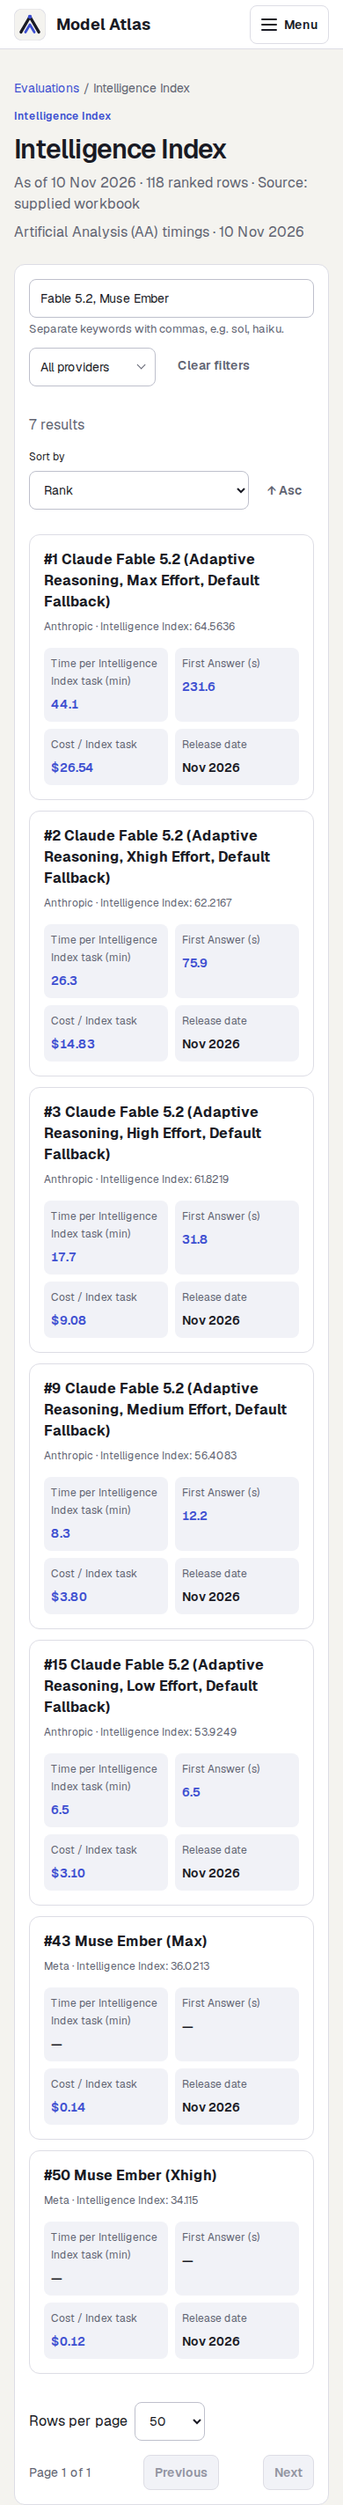
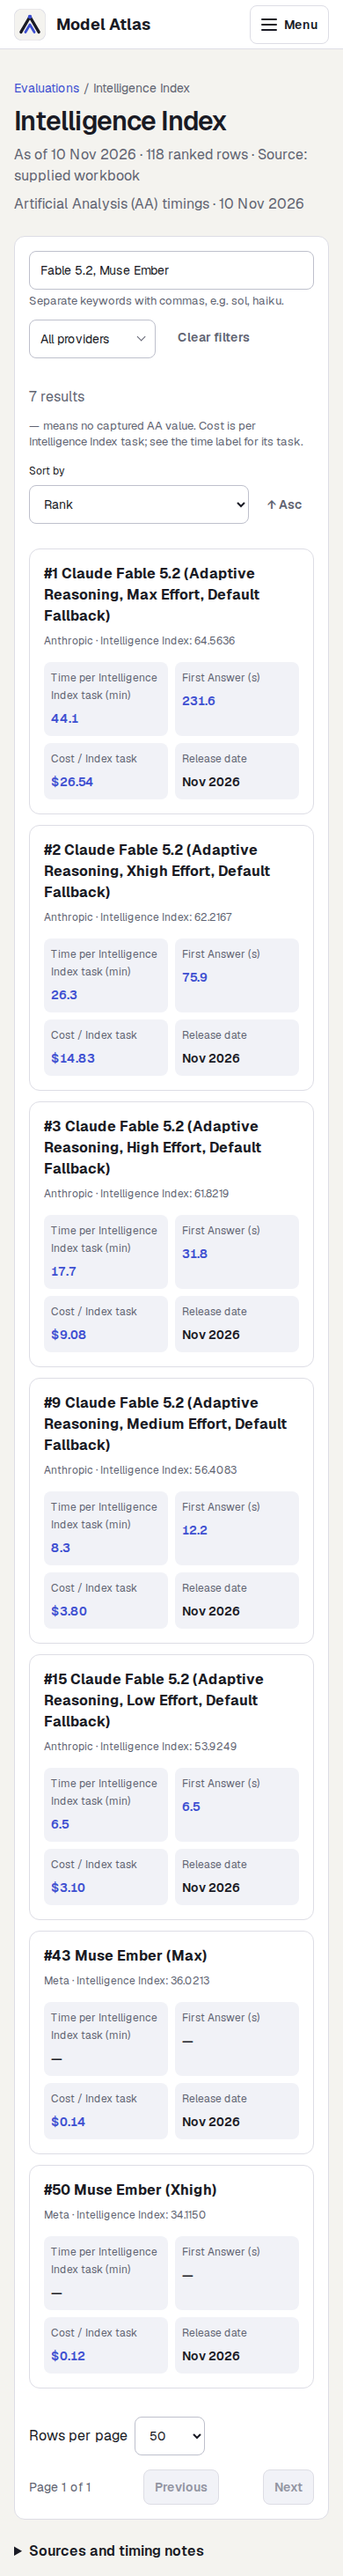
fix: address new-model browser review findings

diff --git a/src/components/master-leaderboard.tsx b/src/components/master-leaderboard.tsx
@@ -22,7 +22,7 @@ function MasterModelSearch({value,onCommit}:{value:string;onCommit:(value:string
     const timer=window.setTimeout(()=>onCommit(next),300);
     return()=>window.clearTimeout(timer);
   },[draft,value,onCommit]);
-  return <div className="toolbar-model-search"><label className="sr-only" htmlFor="master-search">Search master model names</label><Input id="master-search" aria-describedby="master-search-help" value={draft} placeholder="Search model names…" onChange={event=>setDraft(event.target.value.slice(0,200))}/><HelperText id="master-search-help">Separate keywords with commas, e.g. sol, haiku.</HelperText></div>;
+  return <div className="toolbar-model-search"><label className="sr-only" htmlFor="master-search">Search master model names</label><Input id="master-search" aria-describedby="master-search-help" value={draft} placeholder="Search model names…" onChange={event=>setDraft(event.target.value.slice(0,200))}/><HelperText id="master-search-help">Comma-separated: sol, haiku.</HelperText></div>;
 }
 
 function speedValue(seconds:number|null|undefined,format:(seconds:number|null|undefined)=>string,unit?:string){
@@ -54,7 +54,7 @@ function MasterCard({row,favorite,orderedEvaluations,sortedEvaluation,onToggleFa
       {sortedEvaluation&&<div className="master-card__sorted"><dt>{masterEvaluationLabel(sortedEvaluation)}</dt><dd>{sortedCell?<Link className="source-rank" href={sortedCell.href} title={sortedCell.entry.scoring_status??"Original source rank"} aria-label={`${row.model}, ${masterEvaluationLabel(sortedEvaluation)}, original source rank ${sortedCell.entry.source_rank}`}>#{sortedCell.entry.source_rank}</Link>:<span className="muted">Not ranked</span>}</dd></div>}
     </dl>
     <details className="master-card__ranks">
-      <summary>All {orderedEvaluations.length} ranks</summary>
+      <summary>All {orderedEvaluations.length} evaluation ranks</summary>
       <dl>{orderedEvaluations.map(e=>{const c=row.cells[e.id];const label=masterEvaluationLabel(e);return <div key={e.id}><dt>{label}</dt><dd>{c?<Link className="source-rank" href={c.href} title={c.entry.scoring_status??"Original source rank"} aria-label={`${row.model}, ${label}, original source rank ${c.entry.source_rank}`}>#{c.entry.source_rank}</Link>:<span className="muted">Not ranked</span>}</dd></div>;})}</dl>
     </details>
   </li>;
@@ -126,7 +126,7 @@ export default function MasterLeaderboard({rows,evaluations,costCapturedLabel,sp
     </>;
   return <Card id="master-leaderboard" className="master"><div className="eyebrow">Ranks by evaluation</div><h2>Master leaderboard</h2>
     <p className="master-intro">Each evaluation column shows the model’s original rank. Aggregate Score is the average of its available ranks across nine dimensions; lower is better. Cost per Intelligence Index task is the source-reported weighted average in USD. Time per Task (minutes) and First Answer (seconds) are Artificial Analysis speeds; they don’t change the Aggregate Score. All columns can be sorted. <Link href="/about/data">Data notes</Link>.</p>
-    <div className="master-intro-mobile"><p>Each evaluation column shows the model’s original rank.</p><details><summary>About these ranks</summary><p>Aggregate Score is the average of its available ranks across nine dimensions; lower is better. Cost per Intelligence Index task is the source-reported weighted average in USD. Time per task (minutes) and First answer (seconds) are Artificial Analysis speeds; they don’t change the Aggregate Score. Sort with the Sort by control. <Link href="/about/data">Data notes</Link>.</p></details></div>
+    <div className="master-intro-mobile"><p>Original ranks across evaluations.</p><details><summary>About these ranks</summary><p>Aggregate Score is the average of its available ranks across nine dimensions; lower is better. Cost per Intelligence Index task is the source-reported weighted average in USD. Time per task (minutes) and First answer (seconds) are Artificial Analysis speeds; they don’t change the Aggregate Score. Sort with the Sort by control. <Link href="/about/data">Data notes</Link>.</p></details></div>
     <div className="toolbar filter-toolbar master-toolbar">
       <MasterModelSearch value={searchTerm} onCommit={commitSearch}/>
       {filterControls("",  "toolbar")}
@@ -136,8 +136,8 @@ export default function MasterLeaderboard({rows,evaluations,costCapturedLabel,sp
         <Button className="master-mobile-controls__filters" variant="secondary" size="default" aria-haspopup="dialog" onClick={()=>setFiltersOpen(true)}>Filters{activeFilterCount?` · ${activeFilterCount} active`:""}</Button>
       </div>
     </div>
-    <p aria-live="polite">{sorted.length.toLocaleString()} models{selectedProviders.length?` · ${providerSelectionLabel(selectedProviders)}`:""}{favoritesOnly?` · ${favorites.length} favorites saved in this browser`:""} · Ranks come directly from the workbook. “Not ranked” means no entry exists for that exact model variant.</p>{favoriteNotice&&<Alert role="status" live="polite" tone="error">{favoriteNotice}</Alert>}
-    <TableScroll className="master-table-view" label="Master leaderboard, scroll horizontally for evaluations"><Table><caption className="sr-only">Model ranks, aggregate rank scores, Intelligence Index task costs and speeds across every evaluation</caption><thead><tr>{header("model","Model","master-model")}{header("provider","Provider","master-provider")}{metricHeader("intelligence-index-cost","master-cost","Cost Per Intelligence Index Task",`USD · AA · ${costCapturedLabel}`,`Artificial Analysis model profile values · captured ${costCapturedLabel}`)}{metricHeader("time-per-task","master-time","Time per Task",speedDetail("Minutes",speedCapturedLabel),`Average time per Intelligence Index task from Artificial Analysis · captured ${speedCapturedLabel}`)}{metricHeader("first-answer","master-first","First Answer",speedDetail("Seconds",speedCapturedLabel),`Time to first answer token on the creator's API, from Artificial Analysis · captured ${speedCapturedLabel}`)}{metricHeader("aggregate-score","master-aggregate","Aggregate Score","Average rank · lower is better","Arithmetic mean of available source ranks across the nine selected dimensions; lower is better")}{orderedEvaluations.map(e=>{const label=masterEvaluationLabel(e);return <th key={e.id} scope="col" className="numeric" aria-sort={sort===e.id?(direction==="asc"?"ascending":"descending"):"none"}><Button variant="quiet" size="compact" title={`Original source rank · captured ${e.captured_at}`} onClick={()=>update({ms:e.id,md:sort===e.id&&direction==="asc"?"desc":"asc"})}>{label} {sort===e.id?(direction==="asc"?"↑":"↓"):"↕"}<small>Rank · {e.captured_at}</small></Button></th>;})}</tr></thead><tbody>{pageRows.map(r=>{const aggregate=averageMasterRank(r);return <tr key={r.model_id}><td className="master-model"><IconButton className="favorite-star" size="compact" type="button" aria-pressed={favorites.includes(r.identity_key)} aria-label={`${favorites.includes(r.identity_key)?"Remove":"Add"} ${r.model} to favorites`} title={`${favorites.includes(r.identity_key)?"Remove from":"Add to"} favorites`} onClick={()=>toggleFavorite(r.identity_key)}>{favorites.includes(r.identity_key)?"★":"☆"}</IconButton> <Link href={`/?mq=${encodeURIComponent(r.model)}&mp=${encodeURIComponent(r.provider)}#master-leaderboard`}>{r.model}</Link></td><td className="master-provider">{r.provider}</td><td className="numeric master-cost">{r.intelligence_index_cost?<a href={r.intelligence_index_cost.url} target="_blank" rel="noreferrer" title={`Artificial Analysis profile for ${r.intelligence_index_cost.model} · cost captured ${r.intelligence_index_cost.profile_captured_at}`}>{costFormatter.format(r.intelligence_index_cost.cost_usd)}</a>:<span className="muted">—</span>}</td><td className="numeric master-time">{speedValue(r.speed?.time_per_task_s,formatTimePerTask)}</td><td className="numeric master-first">{speedValue(r.speed?.first_answer_s,formatFirstAnswer)}</td><td className="numeric master-aggregate">{aggregate?<span title={`Average of ${aggregate.count} of 9 available source ranks`} aria-label={`${aggregate.score.toFixed(1)} average rank based on ${aggregate.count} of 9 dimensions`}>{aggregate.score.toFixed(1)}<small>{aggregate.count}/9 dims</small></span>:<span className="muted" title="No source rank in any of the nine aggregate dimensions">—</span>}</td>{orderedEvaluations.map(e=>{const c=r.cells[e.id];const label=masterEvaluationLabel(e);return <td key={e.id} className="numeric">{c?<Link className="source-rank" href={c.href} title={c.entry.scoring_status??"Original source rank"} aria-label={`${r.model}, ${label}, original source rank ${c.entry.source_rank}`}>#{c.entry.source_rank}</Link>:<span className="muted">Not ranked</span>}</td>;})}</tr>;})}{!sorted.length&&<tr><td className="empty" colSpan={orderedEvaluations.length+6}>No models match these filters.</td></tr>}</tbody></Table></TableScroll>
+    <p aria-live="polite">{sorted.length.toLocaleString()} models{selectedProviders.length?` · ${providerSelectionLabel(selectedProviders)}`:""}{favoritesOnly?` · ${favorites.length} favorites saved in this browser`:""} · Original source ranks. “Not ranked” means no captured result.</p><HelperText className="leaderboard-legend">— means no captured AA value. Aggregate uses 9 of {orderedEvaluations.length} evaluations.</HelperText>{favoriteNotice&&<Alert role="status" live="polite" tone="error">{favoriteNotice}</Alert>}
+    <TableScroll showOverflowCue className="master-table-view" label="Master leaderboard, scroll horizontally for evaluations"><Table><caption className="sr-only">Model ranks, aggregate rank scores, Intelligence Index task costs and speeds across every evaluation</caption><thead><tr>{header("model","Model","master-model")}{header("provider","Provider","master-provider")}{metricHeader("intelligence-index-cost","master-cost","Cost per Intelligence Index task",speedDetail("USD",costCapturedLabel),`Artificial Analysis model profile values · captured ${costCapturedLabel}`)}{metricHeader("time-per-task","master-time","Time per Task",speedDetail("Minutes",speedCapturedLabel),`Average time per Intelligence Index task from Artificial Analysis · captured ${speedCapturedLabel}`)}{metricHeader("first-answer","master-first","First Answer",speedDetail("Seconds",speedCapturedLabel),`Time to first answer token on the creator's API, from Artificial Analysis · captured ${speedCapturedLabel}`)}{metricHeader("aggregate-score","master-aggregate","Aggregate Score","Average rank · lower is better","Arithmetic mean of available source ranks across the nine selected dimensions; lower is better")}{orderedEvaluations.map(e=>{const label=masterEvaluationLabel(e);return <th key={e.id} scope="col" className="numeric" aria-sort={sort===e.id?(direction==="asc"?"ascending":"descending"):"none"}><Button variant="quiet" size="compact" title={`Original source rank · captured ${e.captured_at}`} onClick={()=>update({ms:e.id,md:sort===e.id&&direction==="asc"?"desc":"asc"})}>{label} {sort===e.id?(direction==="asc"?"↑":"↓"):"↕"}<small>Rank · {e.captured_at}</small></Button></th>;})}</tr></thead><tbody>{pageRows.map(r=>{const aggregate=averageMasterRank(r);return <tr key={r.model_id}><td className="master-model"><IconButton className="favorite-star" size="compact" type="button" aria-pressed={favorites.includes(r.identity_key)} aria-label={`${favorites.includes(r.identity_key)?"Remove":"Add"} ${r.model} to favorites`} title={`${favorites.includes(r.identity_key)?"Remove from":"Add to"} favorites`} onClick={()=>toggleFavorite(r.identity_key)}>{favorites.includes(r.identity_key)?"★":"☆"}</IconButton> <Link href={`/?mq=${encodeURIComponent(r.model)}&mp=${encodeURIComponent(r.provider)}#master-leaderboard`}>{r.model}</Link></td><td className="master-provider">{r.provider}</td><td className="numeric master-cost">{r.intelligence_index_cost?<a href={r.intelligence_index_cost.url} target="_blank" rel="noreferrer" title={`Artificial Analysis profile for ${r.intelligence_index_cost.model} · cost captured ${r.intelligence_index_cost.profile_captured_at}`}>{costFormatter.format(r.intelligence_index_cost.cost_usd)}</a>:<span className="muted">—</span>}</td><td className="numeric master-time">{speedValue(r.speed?.time_per_task_s,formatTimePerTask)}</td><td className="numeric master-first">{speedValue(r.speed?.first_answer_s,formatFirstAnswer)}</td><td className="numeric master-aggregate">{aggregate?<span title={`Average of ${aggregate.count} of 9 available source ranks`} aria-label={`${aggregate.score.toFixed(1)} average rank based on ${aggregate.count} of 9 dimensions`}>{aggregate.score.toFixed(1)}<small>{aggregate.count}/9 dims</small></span>:<span className="muted" title="No source rank in any of the nine aggregate dimensions">—</span>}</td>{orderedEvaluations.map(e=>{const c=r.cells[e.id];const label=masterEvaluationLabel(e);return <td key={e.id} className="numeric">{c?<Link className="source-rank" href={c.href} title={c.entry.scoring_status??"Original source rank"} aria-label={`${r.model}, ${label}, original source rank ${c.entry.source_rank}`}>#{c.entry.source_rank}</Link>:<span className="muted">Not ranked</span>}</td>;})}</tr>;})}{!sorted.length&&<tr><td className="empty" colSpan={orderedEvaluations.length+6}>No models match these filters.</td></tr>}</tbody></Table></TableScroll>
     <ul className="master-cards" aria-label="Master leaderboard models">
       {pageRows.map(r=><MasterCard key={r.model_id} row={r} favorite={favorites.includes(r.identity_key)} orderedEvaluations={orderedEvaluations} sortedEvaluation={sortedEvaluation} onToggleFavorite={toggleFavorite}/>)}
       {!sorted.length&&<li className="empty">No models match these filters.</li>}

diff --git a/src/app/globals.css b/src/app/globals.css
@@ -1190,17 +1190,22 @@ th.numeric {
 
 .master-card__ranks summary::after,
 .master-intro-mobile summary::after {
-  content: "⌄";
+  content: "";
   margin-left: auto;
+  margin-top: -3px;
+  width: 6px;
+  height: 6px;
+  flex-shrink: 0;
+  border-right: 2px solid currentColor;
+  border-bottom: 2px solid currentColor;
   color: var(--text-secondary);
-  font-size: var(--font-size-body);
-  line-height: 1;
+  transform: rotate(45deg);
   transition: transform var(--transition-disclosure);
 }
 
 .master-card__ranks[open] > summary::after,
 .master-intro-mobile[open] > summary::after {
-  transform: rotate(180deg);
+  transform: rotate(225deg);
 }
 
 .master-card__ranks dl {
@@ -1997,4 +2002,52 @@ a.ui-button:hover {
     animation: none;
     transition: none;
   }
+}
+
+/* A scroll cue remains visible even when the OS hides its scrollbars. */
+.table-scroll-frame {
+  position: relative;
+  min-width: 0;
+  max-width: 100%;
+}
+
+.table-overflow-cue {
+  position: absolute;
+  z-index: 3;
+  inset: 1px 1px 1px auto;
+  width: 24px;
+  display: flex;
+  align-items: center;
+  justify-content: flex-end;
+  padding-right: var(--space-1);
+  border-radius: 0 var(--shape-radius-control) var(--shape-radius-control) 0;
+  background: linear-gradient(to right, transparent, var(--bg-surface));
+  color: var(--text-secondary);
+  pointer-events: none;
+}
+
+@media (max-width: 767px) {
+  .table-overflow-cue {
+    display: none;
+  }
+}
+
+.master tbody .master-aggregate > span {
+  display: block;
+  position: relative;
+}
+
+.master tbody .master-aggregate small {
+  position: absolute;
+  top: 100%;
+  right: 0;
+  white-space: nowrap;
+}
+
+.leaderboard-legend {
+  margin: var(--space-2) 0 var(--space-4);
+}
+
+.toolbar.master-toolbar > .master-favorite-count {
+  font-weight: var(--type-weight-regular);
 }

diff --git a/src/components/leaderboard.tsx b/src/components/leaderboard.tsx
@@ -97,6 +97,7 @@ export default function Leaderboard({entries,evaluation,taskCosts,speeds}:{entri
       <Button size="compact" variant="quiet" onClick={()=>router.replace(pathname,{scroll:false})}>Clear filters</Button>
     </div>
     <p aria-live="polite">{sorted.length.toLocaleString()} results{state.provider.length?` · ${providerSelectionLabel(state.provider)}`:""}</p>
+    <HelperText className="leaderboard-legend">— means no captured AA value. Cost is per Intelligence Index task; see the time label for its task.</HelperText>
     <div className="evaluation-mobile-sort">
       <label htmlFor="evaluation-sort">Sort by</label>
       <Select id="evaluation-sort" value={allowedSort} onChange={event=>update({sort:event.target.value,direction:"asc"})}>
@@ -106,7 +107,7 @@ export default function Leaderboard({entries,evaluation,taskCosts,speeds}:{entri
     </div>
     <div className="evaluation-table-view">
       <p className="evaluation-scroll-hint">Scroll sideways for all columns ↔ · Model names stay visible.</p>
-      <TableScroll label={`${evaluation.display_name} source rankings, scroll horizontally for all columns`}>
+      <TableScroll showOverflowCue label={`${evaluation.display_name} source rankings, scroll horizontally for all columns`}>
         <Table className="evaluation-table" style={{tableLayout:"fixed",width:columns.reduce((sum,column)=>sum+columnWidths[columnId(column)],0)}}>
           <caption className="sr-only">{evaluation.display_name} source rankings</caption>
           <colgroup>{columns.map(column=><col key={columnId(column)} style={{width:columnWidths[columnId(column)]}}/>)}</colgroup>

diff --git a/src/components/ui/primitives.tsx b/src/components/ui/primitives.tsx
@@ -15,6 +15,7 @@ import {
 import { useId } from "react";
 import Link, { type LinkProps } from "next/link";
 import { StickyTableHeaders } from "@/components/ui/sticky-table-headers";
+import { TableScrollFrame } from "@/components/ui/table-scroll-frame";
 
 type Variant = "primary" | "secondary" | "quiet" | "destructive";
 type Size = "compact" | "default" | "large";
@@ -219,14 +220,15 @@ export function Skeleton({ className, ...props }: HTMLAttributes<HTMLDivElement>
   return <div {...props} aria-hidden="true" className={classes("ui-skeleton", className)} />;
 }
 
-export function TableScroll({ label, className, children, ...props }: HTMLAttributes<HTMLDivElement> & { label: string }) {
+export function TableScroll({ label, className, children, showOverflowCue = false, ...props }: HTMLAttributes<HTMLDivElement> & { label: string; showOverflowCue?: boolean }) {
   const regionId = useId();
-  return (
+  const region = (
     <div {...props} id={regionId} className={classes("table-scroll", className)} role="region" aria-label={label} tabIndex={props.tabIndex ?? 0}>
       {children}
       <StickyTableHeaders regionId={regionId} />
     </div>
   );
+  return showOverflowCue ? <TableScrollFrame regionId={regionId}>{region}</TableScrollFrame> : region;
 }
 
 export function Table({ className, ...props }: TableHTMLAttributes<HTMLTableElement>) {

diff --git a/src/components/ui/table-scroll-frame.tsx b/src/components/ui/table-scroll-frame.tsx
@@ -1,0 +1,22 @@
+"use client";
+
+import { useEffect, useState, type ReactNode } from "react";
+
+export function TableScrollFrame({ regionId, children }: { regionId: string; children: ReactNode }) {
+  const [moreColumns, setMoreColumns] = useState(false);
+  useEffect(() => {
+    const region = document.getElementById(regionId);
+    if (!region) return;
+    const update = () => setMoreColumns(region.scrollWidth - region.clientWidth - region.scrollLeft > 1);
+    const observer = new ResizeObserver(update);
+    observer.observe(region);
+    if (region.firstElementChild) observer.observe(region.firstElementChild);
+    region.addEventListener("scroll", update, { passive: true });
+    update();
+    return () => { observer.disconnect(); region.removeEventListener("scroll", update); };
+  }, [regionId]);
+  return <div className="table-scroll-frame">
+    {children}
+    {moreColumns && <span className="table-overflow-cue" aria-hidden="true">›</span>}
+  </div>;
+}

diff --git a/tests/evaluation-display.test.ts b/tests/evaluation-display.test.ts
@@ -16,3 +16,13 @@ test("other evaluation displays retain their captured units and precision", () =
     assert.equal(evaluationScoreDisplay({ id }, { score_value: 1, score_display: display }), display);
   }
 });
+
+test("Intelligence Index scores align at four decimals without changing stored values", () => {
+  for (const [value, expected] of [[64.563595756626, "64.5636"], [34.11496086, "34.1150"], [0, "0.0000"]] as const) {
+    const captured = String(Number(value.toFixed(4)));
+    const entry = { score_value: value, score_display: captured };
+    assert.equal(evaluationScoreDisplay({ id: "intelligence-index" }, entry), expected);
+    assert.equal(entry.score_value, value);
+    assert.equal(entry.score_display, captured);
+  }
+});

diff --git a/src/lib/evaluation-display.ts b/src/lib/evaluation-display.ts
@@ -3,5 +3,7 @@ import type { Entry, Evaluation } from "./contract";
 export function evaluationScoreDisplay(evaluation: Pick<Evaluation, "id">, entry: Pick<Entry, "score_value" | "score_display">): string {
   // This captured benchmark stores fractions even though its source label is a percentage.
   // Format at the view boundary, preserving the captured values and their sort order.
-  return evaluation.id === "terminal-bench-4-0" ? `${(entry.score_value * 100).toFixed(2)}%` : entry.score_display;
+  if (evaluation.id === "terminal-bench-4-0") return `${(entry.score_value * 100).toFixed(2)}%`;
+  if (evaluation.id === "intelligence-index") return entry.score_value.toFixed(4);
+  return entry.score_display;
 }

diff --git a/src/app/leaderboards/[evaluationSlug]/page.tsx b/src/app/leaderboards/[evaluationSlug]/page.tsx
@@ -49,7 +49,6 @@ export default async function Page({ params }: { params: Promise<{ evaluationSlu
   return <>
     <PageHeader className="evaluation-page-header">
     <div className="breadcrumb"><Link href="/">Evaluations</Link> / {evaluation.display_name}</div>
-    <div className="eyebrow">{evaluation.metric_label}</div>
     <h1>{evaluation.display_name}</h1>
     <p>As of {capturedDate} · {evaluation.row_count.toLocaleString()} ranked rows · {evaluation.source_url
       ? <a href={evaluation.source_url} target="_blank" rel="noreferrer">Original source ↗</a>

diff --git a/src/lib/master.ts b/src/lib/master.ts
@@ -36,7 +36,7 @@ const masterEvaluationLabels:Record<string,string>={
   "aa-omniscience-index":"Omniscience Index",
   "strategy-ops-index":"Strategy and Ops Index",
   "aa-briefcase-presentation-elo":"Presentation Elo",
-  "terminal-bench-4-0":"Terminal Bench",
+  "terminal-bench-4-0":"Terminal-Bench 4.0",
   "frontiercode-2-0":"FrontierCode 2.0",
   "intelligence-index":"Intelligence Index",
   "aa-briefcase-rubric-score":"Rubric Score",

diff --git a/docs/screenshots/new-models-nov/README.md b/docs/screenshots/new-models-nov/README.md
@@ -1,10 +1,12 @@
 # Task 1.3 browser evidence — 2026-11-10
 
-Local production build with `DATA_SOURCE=local`; no production data or settings changed.
-Turbopack remained at “Creating an optimized production build” without a result and was stopped.
-The webpack fallback passed, including TypeScript.
+Updated after the fresh-eyes review of copies in `/tmp/autorun-fresh-eFKf0B`.
+All 12 supplied pictures were opened at native resolution before deciding on the
+37 reported items below. All 13 final captures were retaken and reopened, including
+Terminal-Bench on phone and both native-pixel crops. This run used bundled data with
+`DATA_SOURCE=local`; no production data, settings, scores or source ranks changed.
 
-Run the existing browser check with the optional focused pass:
+## Reproduce
 
 ```sh
 DATA_SOURCE=local npm run build -- --webpack
@@ -15,20 +17,27 @@ NEW_MODELS_SCREENSHOT_DIR=docs/screenshots/new-models-nov \
 node scripts/check-master-browser.mjs
 ```
 
-Start the server in the background, retain `$!`, and stop that PID after checking.
-This run did so with an EXIT trap on every browser pass. The focused pass was rerun
-after fixing capture framing; no app changes or second build were needed.
+Run the server in the background, retain `$!`, and stop that PID after checking.
+This run used an EXIT trap on each server; the final PID and port were checked after exit.
 
 ## Checks
 
-- Production webpack build and its TypeScript check: passed.
-- Existing master browser check: passed (637 models, CSV/filter/source links, speed sorts, favorites, drawer, keyboard and responsive overflow checks).
-- New-model master searches: exactly five Fable and two Muse configurations at 1440px and 390px; names match bundled entries, phone aggregate scores match desktop, long names wrap, and the Model column remains fixed after scrolling 900px.
-- Intelligence Index and Terminal-Bench 4.0: all seven names, source ranks and displayed scores match bundled entries on desktop and phone, including tied ranks.
-- Layout audit and full-size visual inspection: passed; no phone overflow, overflowing text, covered visible buttons, page errors or console errors. Thirteen PNGs, including two crops, reviewed.
-- JavaScript syntax and diff whitespace checks: passed; local production servers stopped by their recorded PIDs.
+- Production webpack build, including TypeScript: passed after moving the stateful scroll cue into its own client component.
+- Related unit tests (`evaluation-display`, `evaluation-speed`, `model-speed`): 14 passed. The score-precision regression failed before the formatter fix.
+- Existing master browser check: passed, including CSV, filtering, speed sorts, favorites, source navigation, keyboard and responsive overflow checks.
+- Focused model check: five Fable and two Muse configurations at both widths; names wrap without overlap; frozen Model cells stay fixed; phone aggregates and both evaluation ranks/scores match bundled data.
+- New review regressions: legends, single evaluation heading, cost date lines, aggregate alignment and scroll-cue appearance/disappearance passed; layout audit, console and page errors clear; all 13 screenshots inspected at full size.
+- JavaScript syntax, whitespace and screenshot-manifest checks passed; local server stopped by its recorded PID and port 3180 closed.
 
-`browser-check.json` records the names, ranks, scores and screenshot manifest.
+The initial follow-up rebuild failed with `Build failed because of webpack errors`
+after browser state was added to the shared server primitives. Moving the cue into
+`table-scroll-frame.tsx` restored the server/client boundary; the final build passed.
+The first sandboxed unit invocation only reported `test failed`; the unrestricted
+pre-fix run showed the expected four-decimal assertion failure. The original task's
+Turbopack stall and one-off metadata command failures are recorded in commit `7efd4c5`.
+
+`browser-check.json` records names, ranks, displayed scores and the screenshot manifest.
+Only display precision changes: for example `34.115` now appears as `34.1150`.
 
 | Configuration | Intelligence Index rank | Terminal-Bench 4.0 rank |
 | --- | ---: | ---: |
@@ -40,40 +49,78 @@ after fixing capture framing; no app changes or second build were needed.
 | Muse Ember Max | 43 | 42 |
 | Muse Ember Xhigh | 50 | 48 |
 
-## Look check
+## Every checker item
 
-Desktop master captures are 1440×1000; evaluation captures are 1440×1200 so the
-breadcrumb, heading, all seven rows and pagination fit. Phone first-screen captures
-are 390×844. Tall phone captures retain the 390px width and normal text size, showing
-all matching cards without rearranging the UI. Crops retain native pixels.
+Numbers match the supplied checker picture prefixes; letter order follows its findings.
 
-The first capture pass included unrelated home sections in tall master shots and
-cropped desktop evaluation breadcrumbs. Those framing faults were corrected. No UI
-fault requiring an app change was found. Horizontal table continuation and content
-below the phone viewport are intentional; complete names and scores are visible in
-the companion full captures. Muse speed dashes reflect missing AA values.
+| Item | Decision and result |
+| --- | --- |
+| 01a | Fixed: removed the redundant metric eyebrow, retaining breadcrumb and title. |
+| 01b | Fixed missing continuation cue: right-edge fade and chevron show hidden columns. The rightmost column can still be partially visible; see decision below. |
+| 01c | Fixed: Intelligence Index values use four decimal places with tabular figures. |
+| 01d | Fixed: visible legend explains the dash above the table. |
+| 02a | Fixed by the same evaluation heading change on phone. |
+| 02b | Fixed capture: complete panel, bottom margin and Sources and timing notes summary included. |
+| 02c | Retained the compact cost label; the new visible legend defines its full meaning. Release date is an existing desktop column beyond the scroll edge, not a missing field. |
+| 02d | Fixed by the visible dash legend on phone. |
+| 03a | Intentional horizontal viewport boundary; added fade/chevron so the partial header indicates more columns rather than an empty result. |
+| 03b | Fixed capture: align the Terminal-Bench column beside the frozen divider with its full cell padding visible. |
+| 03c | Fixed: master label now reads Terminal-Bench 4.0. |
+| 03d | Fixed: sentence-case cost header; currency/source and complete capture date occupy separate lines. |
+| 03e | Fixed: shorter comma-search hint stays on one line; favorites count uses regular weight, distinct from actions. |
+| 03f | Retained full-name wrapping and existing frozen widths; names remain separate from stars and contained in their cells. |
+| 04a | Fixed: aggregate value aligns with other row numbers; dimension count sits below as secondary text. |
+| 04b | Fixed by the same cost header/date and search-hint changes. |
+| 04c | Fixed: visible legend says Aggregate uses 9 of 20 evaluations; disclosure says All 20 evaluation ranks. |
+| 05a | Fixed: centered CSS chevron replaces the low-baseline text glyph. |
+| 05b | Fixed capture: 16px gap above the anchored master panel. It is a home-page section and does not need a new breadcrumb. |
+| 06a | Fixed capture: header and top gap included in the full 390px master shot. |
+| 06b | Fixed by the visible aggregate explanation and explicit evaluation-rank disclosure. |
+| 06c | Retained existing independent page-size defaults; both controls work and all filtered models fit on one page. |
+| 07a | Fixed capture: 8px margin around the complete card border and rounded corners. |
+| 07b | Retained equal-height metric tiles, which align the two-column grid; unused space is not missing content. |
+| 08 | No fault was described; the full-size crop shows an intact cell, separate star and complete text. |
+| 09a | Fixed capture: ends after the master panel with margin, excluding unrelated partially visible benchmark cards. |
+| 09b | Retained existing benchmark category labels; repetition is a stylistic preference and does not obscure content. |
+| 09c | Fixed: dash legend visible before the table. |
+| 09d | Fixed: complete cost capture date stays together. |
+| 10a | Fixed: dash legend visible above phone cards. |
+| 10b | Fixed by the CSS disclosure chevron change. |
+| 11a | Fixed capture: full phone header and gap included. |
+| 11b | Fixed: dash legend, explanation of 9 versus 20, and explicit evaluation-rank disclosure. |
+| 12a | Fixed missing continuation cue with the fade/chevron; Provider remains part of the horizontally scrolling table. |
+| 12b | Fixed: removed the stray Score (%) eyebrow; percentage units remain in scores and column heading. |
+| 12c | Fixed: visible dash legend above the table. |
+| 12d | Fixed: visible text explicitly says cost is per Intelligence Index task and directs readers to the time label for its task. |
 
-A preliminary PNG dimension helper failed with `ModuleNotFoundError: No module named 'PIL'`;
-dimensions were then read successfully from PNG headers with Python's standard library.
-A one-off manifest summary command had `SyntaxError: Unexpected token ')'`; the corrected
-standard-library check passed for all 13 files, four master counts and four evaluation cohorts.
+## Remaining decisions
 
-- LOOKED: master-fable-1440.png · Five rows sit between table rules; stars stand left of wrapped names, with no overlap; later columns continue off the right edge and pagination is below the frame; every name and score is readable.
-- LOOKED: master-fable-1440-frozen.png · The same five name cells stay in front of scrolling rank columns; the far-right Intelligence header is clipped by the scroll boundary; no star or name is covered.
-- LOOKED: master-fable-name-crop.png · One complete cell fills the crop; the star sits left of the four-line name, with clear space above the cell base; all text is whole.
-- LOOKED: master-muse-1440.png · Two rows sit above pagination; stars, names and scores are separate; evaluation tiles continue below the viewport; model text is whole.
-- LOOKED: master-fable-390-first-screen.png · The top bar sits above search controls and the first card; the card continues below the bottom edge, but its full name, aggregate and cost are visible; no overlay covers text.
-- LOOKED: master-fable-390.png · Five bordered cards stack above pagination inside the master panel; stars sit beside titles and metrics below them; no card edge, name or score is cut or covered.
-- LOOKED: master-fable-last-card-crop.png · The Low-effort card encloses its title, metric tiles, rank and disclosure above a complete bottom border; the star is separate and all text is readable.
-- LOOKED: master-muse-390-first-screen.png · The top bar sits above controls and the Max card; the card continues below the viewport, with the full name, aggregate and cost visible; nothing overlaps them.
-- LOOKED: master-muse-390.png · Two complete cards sit above pagination; metric tiles remain inside their borders, stars do not cover titles, and all names and scores are whole.
-- LOOKED: intelligence-index-1440.png · The complete heading stands above seven ruled rows; wrapped names, scores and ranks align inside their columns; no relevant text is cut or covered.
-- LOOKED: intelligence-index-390.png · The heading and filters stand above seven cards; ranks 1/2/3/9/15/43/50 precede readable titles, metrics sit below, and complete card bases remain separate.
-- LOOKED: terminal-bench-4-0-1440.png · The full heading stands above seven rows; ranks 5/7/7/19/21/42/48 and percentage scores align beside wrapped names; no relevant text is clipped or overlaid.
-- LOOKED: terminal-bench-4-0-390.png · Seven cards stack below the heading and filters; each rank sits before its full title and percentage, tiles stay inside their bases, and no name or score is cut or covered.
+- DECISION: not fixed partial right-edge columns (01b, 03a, 12a), because these are horizontal viewports; the new fade/chevron explicitly signals hidden content and disappears at the end.
+- DECISION: not fixed the compact phone cost wording and Release date placement (02c), because the legend defines the same cost and Release date already exists farther right in the desktop table.
+- DECISION: not fixed four-line Model names and Provider whitespace (03f), because full names must wrap inside the established frozen column without overlapping stars or scores.
+- DECISION: not fixed page-size defaults of 25 and 50 (06c), because the master and evaluation tables have independent existing pagination settings and both show the entire filtered cohort.
+- DECISION: not fixed the extra space in the Cost tile (07b), because equal-height tiles preserve row alignment while Aggregate includes a dimension count.
+- DECISION: not fixed the name crop (08), because the checker supplied no fault and the complete text and star are separate at full size.
+- DECISION: not fixed repeated benchmark category labels (09b), because these existing labels identify each standalone tile; this task's captures now exclude that unrelated area.
 
-## Decisions
+## Final look check
 
-- DECISION: Use webpack after the stalled Turbopack attempt rather than keep waiting; the plan explicitly permits the fallback.
-- DECISION: Add an optional focused helper to the existing browser check rather than change app code; the UI already displays the imported models correctly.
-- DECISION: Keep real phone first-screen shots plus tall 390px captures rather than shrink cards; this preserves text size while documenting every result.
+All widths remain 1440px or 390px. Real phone first-screen shots are 390×844.
+Tall phone captures keep normal typography and include the header; evaluation captures
+also include the notes summary and bottom margin. Crops retain native pixels.
+
+- LOOKED: master-fable-1440.png · Five ruled rows sit above pagination; stars are separate from four-line names, dates are whole and row numbers align; the right-edge cue overlays only the scrolling boundary.
+- LOOKED: master-fable-1440-frozen.png · Five names remain in front of scrolling ranks; Terminal-Bench 4.0 has clear divider padding; the far-right partial column fades into the continuation cue, without covering names or scores.
+- LOOKED: master-fable-name-crop.png · The cell contains the complete four-line name with the star to its left; text ends before the cell base and no text is covered.
+- LOOKED: master-muse-1440.png · Two rows sit above pagination and a complete panel base; names, scores and dates are whole, dashes have a legend, and unrelated benchmark links are outside the capture.
+- LOOKED: master-fable-390-first-screen.png · The header sits above a 16px gap, controls and first card; the card continues below the frame, but the complete name, aggregate and cost are readable; no overlay covers them.
+- LOOKED: master-fable-390.png · Header and gap stand above five bordered cards and pagination; titles, stars, metrics and bases remain separate, with all names and scores whole.
+- LOOKED: master-fable-last-card-crop.png · The complete Low-effort card stands inside an 8px capture margin; star and title are separate, tiles sit inside the border, and no text or corner is clipped.
+- LOOKED: master-muse-390-first-screen.png · Header, gap and controls sit above the Max card; lower tiles continue below the viewport, while the full name, aggregate, cost and dash legend remain visible.
+- LOOKED: master-muse-390.png · Header and gap stand above two complete cards and pagination; tiles stay inside borders and no name, score or card base is cut or covered.
+- LOOKED: intelligence-index-1440.png · Breadcrumb and single title stand above seven ruled rows; four-decimal scores and ranks align, names stay whole, and only the scrolling right edge carries the fade/chevron.
+- LOOKED: intelligence-index-390.png · Header and title stand above seven complete cards; names, ranks and four-decimal scores are readable, with the notes summary and margin below the final panel base.
+- LOOKED: terminal-bench-4-0-1440.png · Single title stands above seven rows; wrapped names, percentages and tied ranks remain whole, the cost/dash legend is visible, and the cue marks the right scroll edge.
+- LOOKED: terminal-bench-4-0-390.png · Header and title stand above seven bordered cards; ranks and percentages are whole, metric tiles stay inside their bases, and the notes summary and bottom margin are included.
+
+Shared UI code changed; the full check remains part of phase review R1, not this light-check task.

diff --git a/docs/IMPLEMENTATION_PLAN.md b/docs/IMPLEMENTATION_PLAN.md
@@ -47,7 +47,7 @@ and the five Fable 5.2 rows on GDPval-AA (Muse Ember isn't listed there). Charts
 |---|---|---|---|---|
 | 1.1 | **Capture and import** [no look]. Recapture all 16 AA pages (`scripts/capture-aa-evaluations.mjs`, with `PLAYWRIGHT_MODULE=/home/ubuntu/projects-steps-documentation/node_modules/playwright/index.mjs`) and the AA-Briefcase rubric and quality-Elo tabs (no committed script: read `docs/AA_BRIEFCASE_RUBRIC_REFRESH_PROMPT.md`), then run `import:briefcase-components`, `import:aa-index-costs` (also writes `data/aa-model-speed.json`) and `import:aa-evaluations` last. Update the capture date in `docs/DATA_DICTIONARY.md` and `src/app/about/data/page.tsx`. Read: Models and Decisions above. **Done when** all seven names appear in the captures (list any AA doesn't show at all); `node --import tsx scripts/validate-master.ts`, `node --import tsx --test tests/rubric-snapshot.test.ts tests/suitability*.test.ts tests/model-speed.test.ts` and `npx tsc --noEmit -p tsconfig.json` pass; a second `import:aa-evaluations` run changes no file; the commit body lists row counts before → after per evaluation, like `44fe61f`. | Sol Max | Imports can corrupt every leaderboard; the 7 Nov refresh ran cleanly on it | 2026-11-10; checks pass; repeat import unchanged |
 | 1.2 | **Coverage audit** [no look]. Write `docs/FABLE_5_2_MUSE_EMBER_COVERAGE.md`: one row per evaluation (all 20 in `data/leaderboards.json`), one column per model; each cell the stored value or "not on AA (captured <date>)", traced to its capture file. Add the Intelligence Index cost per task, Time per Task and First Answer per model (dash where AA has none). Use `aggregateMaster` on the merged local data (as in `src/lib/data.ts`) to confirm each model is exactly one master row. Read: `docs/CLAUDE_HAIKU_5_5_COVERAGE_AUDIT.md` for the layout. **Done when** every cell is filled and spot-checks of five cells match the capture JSON; any duplicate or misnamed row goes back into the importer with a test. | Sonnet 5.5 High | Completeness is the job (Rubric 12) | 2026-11-10; 140 cells (125 stored, 15 not on AA), one master row each, 5 spot-checks match |
-| 1.3 | **Browser check** [look]. Production build (`next build`; webpack if Turbopack hits the sandbox port limit, as on 7 Nov), `next start`, run `scripts/check-master-browser.mjs`, stop the server by its PID. Screenshots to `docs/screenshots/new-models-nov/`. **Done when** the check passes and shots show: the master table at 1440px searched for "Fable 5.2" with five rows and "Muse Ember" with two, long names wrapping inside the frozen Model column with no overlap; the same searches at 390px as cards with their scores; Intelligence Index and one evaluation page where AA scores them (e.g. Terminal-Bench 4.0) listing them at the right rank. | Sol xHigh | A pass/fail script plus shots | 2026-11-10; webpack build and browser checks pass; 13 shots reviewed, 5/2 rows at 1440/390px, both evaluation ranks match; server stopped |
+| 1.3 | **Browser check** [look]. Production build (`next build`; webpack if Turbopack hits the sandbox port limit, as on 7 Nov), `next start`, run `scripts/check-master-browser.mjs`, stop the server by its PID. Screenshots to `docs/screenshots/new-models-nov/`. **Done when** the check passes and shots show: the master table at 1440px searched for "Fable 5.2" with five rows and "Muse Ember" with two, long names wrapping inside the frozen Model column with no overlap; the same searches at 390px as cards with their scores; Intelligence Index and one evaluation page where AA scores them (e.g. Terminal-Bench 4.0) listing them at the right rank. | Sol xHigh | A pass/fail script plus shots | 2026-11-10; fresh-eyes fixes checked; webpack build, 14 unit tests and browser checks pass; 13 shots reviewed, 5/2 rows and both evaluation ranks match; server stopped |
 | 1.4 | **Global model tables** [no look]. Redo every rank in both tables of `~/.claude/playbooks/plans-and-models.md` from the new data (method: `aggregateMaster`, `cells[evalId].entry.source_rank`; row names like `Claude Opus 5.5 (Adaptive Reasoning, High Effort, Default Fallback)`, `GPT-6.1 Sol (Max)`), update the "out of N models" counts and capture date, and recheck the prose figures. Add a **Fable 5.2** note next to the Fable 5.1 one: cost and ranks per effort against Opus 5.5 High and xHigh. A 2026-11-10 test capture put Fable 5.2 Low and Medium above Opus 5.5 High on Strategy & Ops, Finance and Omniscience (about 63 against 42) for about the same AA cost, and below it on AA-Briefcase and GDPval. So the note also weighs Fable 5.2 Low and Medium for the steps in "Analysis work" (framing, strategy and finance analysis, final recommendation, red-teaming), using the Briefcase Presentation, Rubric and Analytical Elo ranks too. It also notes that the owner sees Fable draw down the weekly and 5-hour limits faster than Opus. Commit and push in the `~/.claude` repo. Read: that file's "Model choice for coding implementation", "Analysis work" and "GPT models (Codex)" sections only. **Done when** every cell traces to the new data, and the final message lists any pick the new numbers would change. | Opus 5.5 High | Model-choice notes every future pick reads; writes outside this repo | |
 | R1 | **Phase 1 review** and its fixes: the diff from `main`, the 1.2 audit against the captures, the 1.3 shots, the 1.4 tables. | Opus 5.5 High | Other family from most of the build | |
 | O1 | *owner*: release with `git push origin fable-5-2-muse-ember:main`, then in a Claude session in this folder say "publish the data" (checks, `npm run publish:data`, Firestore read-back per `CLAUDE.md`). Open the live master and search "Fable 5.2" and "Muse Ember". | — | — | |
